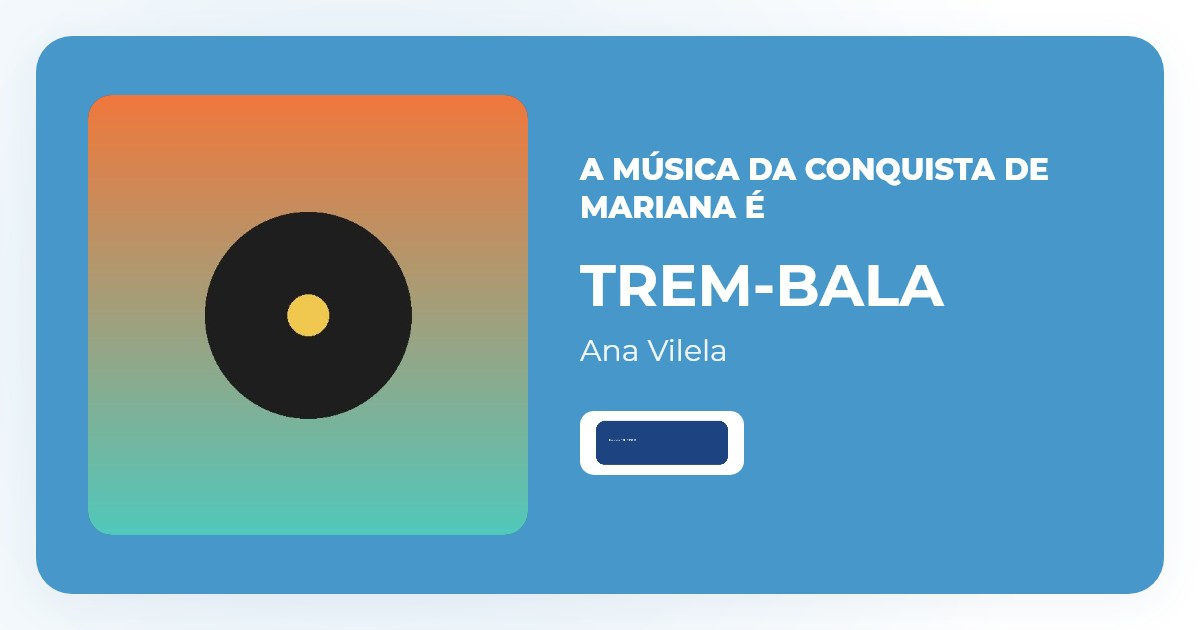
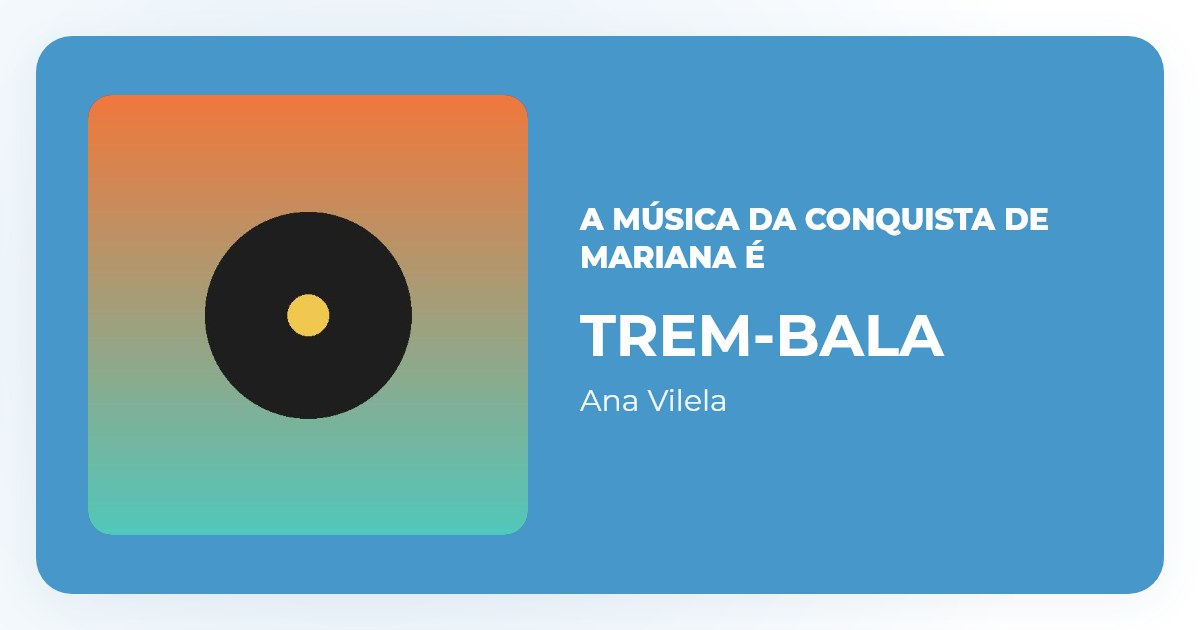
Add files via upload

Changed region(s): [[0.4625, 0.2413, 0.8942, 0.573], [0.4625, 0.6032, 0.6475, 0.754]]

diff --git a/server.js b/server.js
@@ -269,16 +269,6 @@ async function buscarParticipacao(id) {
 
 const tituloDe = (p) => (p.tipo === "dedicatoria" ? `A música da conquista de ${primeiroNome(p.amigo || "")} é` : "A música da minha conquista é");
 
-// Logo da campanha, buscada uma vez no próprio site
-let logoPromessa = null;
-function logoCampanha() {
-  logoPromessa ??= fetch(`${SITE_URL}/img/img-1.png`)
-    .then((r) => (r.ok ? r.arrayBuffer() : Promise.reject()))
-    .then((b) => loadImage(Buffer.from(b)))
-    .catch(() => { logoPromessa = null; return null; }); // tenta de novo na próxima
-  return logoPromessa;
-}
-
 async function carregarCapa(url) {
   if (!url) return null;
   const grande = url.replace("ab67616d00001e02", "ab67616d0000b273"); // versão 640px do Spotify
@@ -314,12 +304,26 @@ function arredondado(ctx, x, y, w, h, r) {
   ctx.roundRect(x, y, w, h, r);
 }
 
+// Nota musical simples (quando a música não tem capa)
+function desenharNota(ctx, cx, cy, t) {
+  ctx.save();
+  ctx.fillStyle = "#fff"; ctx.strokeStyle = "#fff";
+  ctx.lineWidth = t * .09; ctx.lineCap = "round";
+  const xe = cx - t * .3, xd = cx + t * .3, yb = cy + t * .32, yt = cy - t * .42;
+  ctx.beginPath(); ctx.moveTo(xe + t * .14, yb); ctx.lineTo(xe + t * .14, yt + t * .12);
+  ctx.lineTo(xd + t * .14, yt); ctx.lineTo(xd + t * .14, yb - t * .12); ctx.stroke();
+  for (const [x, y] of [[xe, yb], [xd, yb - t * .12]]) {
+    ctx.beginPath(); ctx.ellipse(x, y, t * .17, t * .13, -.4, 0, Math.PI * 2); ctx.fill();
+  }
+  ctx.restore();
+}
+
 // Imagem 1200×630, o tamanho recomendado pelo Facebook e aceito pelo WhatsApp
-async function gerarImagemOg({ titulo, musica, artistas, capaUrl, selo = true }) {
+async function gerarImagemOg({ titulo, musica, artistas, capaUrl }) {
   const L = 1200, A = 630;
   const canvas = createCanvas(L, A);
   const ctx = canvas.getContext("2d");
-  const [capa, logo] = await Promise.all([carregarCapa(capaUrl), logoCampanha()]);
+  const capa = await carregarCapa(capaUrl);
 
   // Fundo branco com a mancha azul do site
   ctx.fillStyle = "#fff"; ctx.fillRect(0, 0, L, A);
@@ -338,12 +342,9 @@ async function gerarImagemOg({ titulo, musica, artistas, capaUrl, selo = true })
   const tc = 440, xc = cx + 52, yc = (A - tc) / 2;
   ctx.save();
   arredondado(ctx, xc, yc, tc, tc, 24); ctx.clip();
-  ctx.fillStyle = capa ? "#1D4480" : "#fff"; ctx.fillRect(xc, yc, tc, tc);
+  ctx.fillStyle = "#1D4480"; ctx.fillRect(xc, yc, tc, tc);
   if (capa) ctx.drawImage(capa, xc, yc, tc, tc);
-  else if (logo) {
-    const w = tc * .78, h = w * logo.height / logo.width;
-    ctx.drawImage(logo, xc + (tc - w) / 2, yc + (tc - h) / 2, w, h);
-  }
+  else desenharNota(ctx, xc + tc / 2, yc + tc / 2, tc * .42); // sem capa: nota musical
   ctx.restore();
 
   // Textos à direita
@@ -358,10 +359,8 @@ async function gerarImagemOg({ titulo, musica, artistas, capaUrl, selo = true })
   ctx.font = "30px Montserrat";
   const lArt = artistas ? quebrar(ctx, artistas, lt, 2) : [];
 
-  const comSelo = Boolean(logo && selo && capa);
-  const alturaLogo = comSelo ? 64 : 0;
   const altura = lTit.length * 38 + 28 + lMus.length * (tamMus * 1.1) + 14 + lArt.length * 38;
-  let y = cy + (ch - altura - (alturaLogo ? alturaLogo + 36 : 0)) / 2;
+  let y = cy + (ch - altura) / 2;
 
   ctx.font = "30px 'Montserrat ExtraBold'";
   lTit.forEach((t) => { ctx.fillText(t, xt, y); y += 38; });
@@ -372,14 +371,6 @@ async function gerarImagemOg({ titulo, musica, artistas, capaUrl, selo = true })
   ctx.globalAlpha = .92; ctx.font = "30px Montserrat";
   lArt.forEach((t) => { ctx.fillText(t, xt, y); y += 38; });
   ctx.globalAlpha = 1;
-
-  // Logo da campanha num selo branco
-  if (comSelo) {
-    const h = alturaLogo - 20, w = h * logo.width / logo.height;
-    const yl = y + 36;
-    arredondado(ctx, xt, yl, w + 32, alturaLogo, 14); ctx.fillStyle = "#fff"; ctx.fill();
-    ctx.drawImage(logo, xt + 16, yl + 10, w, h);
-  }
 
   return canvas.encode("jpeg", 88); // JPEG fica leve (o WhatsApp ignora imagens pesadas)
 }
@@ -418,7 +409,7 @@ app.get("/c/:id/imagem.jpg", async (req, res) => {
 app.get("/og/campanha.jpg", async (_req, res) => {
   try {
     const buf = await imagemEmCache("campanha", () => gerarImagemOg({
-      titulo: "Senac EAD", musica: "Qual é a música da sua conquista?", artistas: "Escolha a sua e compartilhe!", selo: false,
+      titulo: "Senac EAD", musica: "Qual é a música da sua conquista?", artistas: "Escolha a sua e compartilhe!",
     }));
     enviarJpeg(res, buf);
   } catch (e) {
